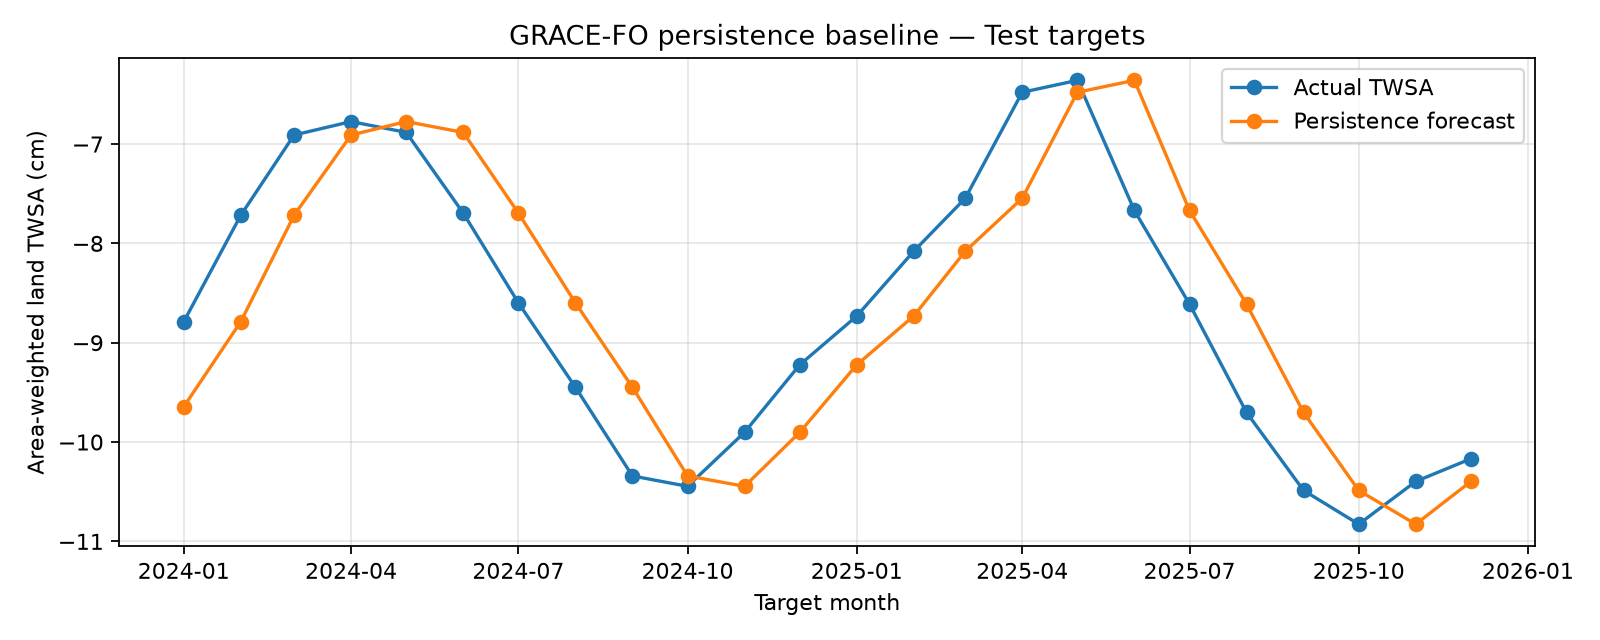
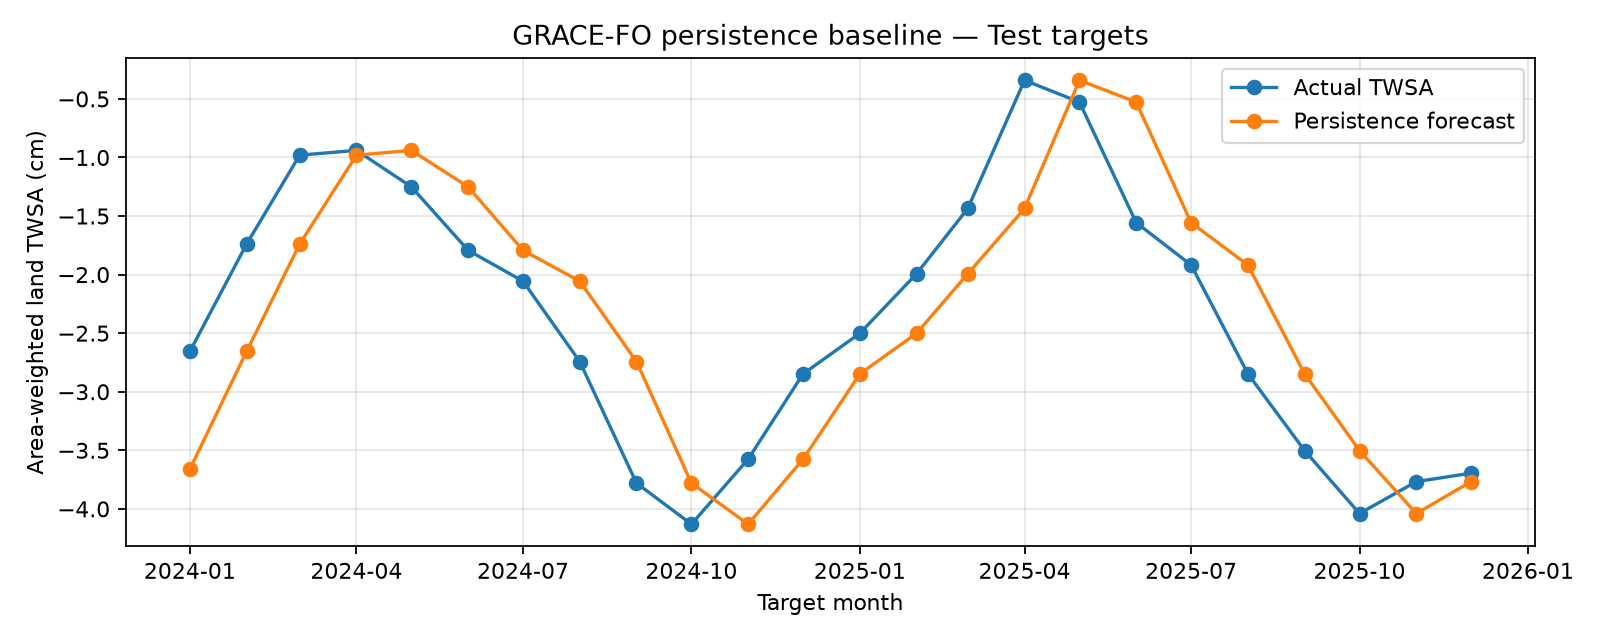
Update GRACE persistence RMSE, coverage, notebook, and outputs

diff --git a/scripts/grace_fo_persistence.py b/scripts/grace_fo_persistence.py
@@ -130,16 +130,22 @@ def temporal_correlation(actual: xr.DataArray, predicted: xr.DataArray, valid: x
     return correlation, eligible
 
 
-def evaluate(actual: xr.DataArray, predicted: xr.DataArray) -> tuple[dict, xr.DataArray]:
-    """Compute valid-land, latitude-area-weighted metrics in centimeters.
+def evaluate(
+    actual: xr.DataArray, predicted: xr.DataArray, land_mask: xr.DataArray
+) -> tuple[dict, xr.DataArray]:
+    """Compute valid land metrics between 60°S and 60°N in centimeters.
 
     MAE = sum(w * |actual - predicted|) / sum(w)
-    RMSE = sqrt(sum(w * (actual - predicted)^2) / sum(w))
-    where w = cos(latitude) for each valid land-cell/month observation.
+    The primary RMSE is computed through time per grid cell, then averaged
+    over valid cells with w = cos(latitude). The prior pooled RMSE across all
+    valid cell/month observations is retained separately for continuity.
     Pearson r is computed through time per grid cell, then averaged over
     eligible cells with the same latitude weights.
     """
-    valid = np.isfinite(actual) & np.isfinite(predicted)
+    latitude_mask = xr.DataArray(
+        np.abs(actual.lat.values) <= 60, coords={"lat": actual.lat}, dims=("lat",)
+    )
+    valid = np.isfinite(actual) & np.isfinite(predicted) & (land_mask == 1) & latitude_mask
     weights = latitude_weights(actual).broadcast_like(actual)
     weighted_denominator = weights.where(valid).sum(skipna=True)
     if float(weighted_denominator) == 0:
@@ -147,12 +153,19 @@ def evaluate(actual: xr.DataArray, predicted: xr.DataArray) -> tuple[dict, xr.Da
 
     error = actual - predicted
     mae = (weights * np.abs(error)).where(valid).sum(skipna=True) / weighted_denominator
-    rmse = np.sqrt(((weights * error ** 2).where(valid).sum(skipna=True)) / weighted_denominator)
+    pooled_rmse = np.sqrt(((weights * error ** 2).where(valid).sum(skipna=True)) / weighted_denominator)
+    per_cell_rmse = np.sqrt((error ** 2).where(valid).mean(dim="time", skipna=True))
+    eligible_rmse = np.isfinite(per_cell_rmse)
+    cell_weights = latitude_weights(actual).broadcast_like(per_cell_rmse)
+    rmse_weight_sum = cell_weights.where(eligible_rmse).sum(skipna=True)
+    area_weighted_per_cell_rmse = (
+        (cell_weights * per_cell_rmse).where(eligible_rmse).sum(skipna=True) / rmse_weight_sum
+    )
     correlation, eligible_correlation = temporal_correlation(actual, predicted, valid)
-    cell_weights = latitude_weights(actual).broadcast_like(correlation)
-    correlation_weight_sum = cell_weights.where(eligible_correlation).sum(skipna=True)
+    correlation_weights = latitude_weights(actual).broadcast_like(correlation)
+    correlation_weight_sum = correlation_weights.where(eligible_correlation).sum(skipna=True)
     weighted_correlation = (
-        (cell_weights * correlation).where(eligible_correlation).sum(skipna=True) / correlation_weight_sum
+        (correlation_weights * correlation).where(eligible_correlation).sum(skipna=True) / correlation_weight_sum
         if float(correlation_weight_sum) > 0
         else xr.DataArray(np.nan)
     )
@@ -161,8 +174,11 @@ def evaluate(actual: xr.DataArray, predicted: xr.DataArray) -> tuple[dict, xr.Da
     valid_by_cell = valid.any(dim="time")
     metrics = {
         "mae_cm": float(mae),
-        "rmse_cm": float(rmse),
+        "rmse_cm": float(area_weighted_per_cell_rmse),
+        "area_weighted_per_cell_rmse_cm": float(area_weighted_per_cell_rmse),
+        "pooled_rmse_cm": float(pooled_rmse),
         "area_weighted_mean_temporal_pearson_r": float(weighted_correlation),
+        "evaluation_latitude_range_degrees": [-60, 60],
         "evaluated_months": int(valid_by_time.sum()),
         "evaluated_land_cells": int(valid_by_cell.sum()),
         "correlation_eligible_land_cells": int(eligible_correlation.sum()),
@@ -281,7 +297,13 @@ def main() -> None:
     all_metrics = {
         "baseline": "one_month_persistence",
         "forecast_horizon_months": config["forecast"]["horizon_months"],
-        "metric_units": {"mae_cm": "cm", "rmse_cm": "cm", "area_weighted_mean_temporal_pearson_r": "unitless"},
+        "metric_units": {
+            "mae_cm": "cm",
+            "rmse_cm": "cm",
+            "area_weighted_per_cell_rmse_cm": "cm",
+            "pooled_rmse_cm": "cm",
+            "area_weighted_mean_temporal_pearson_r": "unitless",
+        },
         "split_datasets": {},
         "splits": {},
     }
@@ -290,6 +312,7 @@ def main() -> None:
         validate_processed_dataset(dataset, config)
         split_paths = write_split_datasets(dataset, config, args.split_output_dir)
         data = land_modeling_view(dataset, target_variable, land_mask_variable).load()
+        land_mask = dataset[land_mask_variable].load()
 
     all_metrics["split_datasets"] = {name: str(path) for name, path in split_paths.items()}
 
@@ -298,7 +321,7 @@ def main() -> None:
 
     for split_name, split in config["splits"].items():
         actual, predicted = persistence_pairs(data, split["start"], split["end"])
-        metrics, valid = evaluate(actual, predicted)
+        metrics, valid = evaluate(actual, predicted, land_mask)
         metrics["target_start"] = split["start"]
         metrics["target_end"] = split["end"]
         all_metrics["splits"][split_name] = metrics
@@ -317,7 +340,7 @@ def main() -> None:
         "model_type": "deterministic_persistence",
         "equation": "predicted_twsa(t) = observed_twsa(t - 1)",
         "target_variable": target_variable,
-        "modeling_mask": f"{land_mask_variable} == 1",
+        "modeling_mask": f"{land_mask_variable} == 1 and -60 <= latitude <= 60 for evaluation",
         "forecast_horizon_months": config["forecast"]["horizon_months"],
         "study_period": config["study_period"],
         "splits": config["splits"],
@@ -335,7 +358,8 @@ def main() -> None:
     for split_name, metrics in all_metrics["splits"].items():
         print(
             f"{split_name}: MAE={metrics['mae_cm']:.3f} cm | "
-            f"RMSE={metrics['rmse_cm']:.3f} cm | "
+            f"RMSE (area-weighted per-cell)={metrics['rmse_cm']:.3f} cm | "
+            f"pooled RMSE={metrics['pooled_rmse_cm']:.3f} cm | "
             f"r={metrics['area_weighted_mean_temporal_pearson_r']:.3f} | "
             f"months={metrics['evaluated_months']} | cells={metrics['evaluated_land_cells']}"
         )

diff --git a/tests/test_grace_fo_pipeline.py b/tests/test_grace_fo_pipeline.py
@@ -98,12 +98,34 @@ class GraceFoPersistenceTests(unittest.TestCase):
             coords={"time": pd.date_range("2023-01-01", periods=3, freq="MS"), "lat": [0.0, 60.0], "lon": [0.0]},
         )
         predicted = actual - 1.0
-        metrics, _ = persistence.evaluate(actual, predicted)
+        land_mask = xr.DataArray([[1], [1]], dims=("lat", "lon"), coords={"lat": [0.0, 60.0], "lon": [0.0]})
+        metrics, _ = persistence.evaluate(actual, predicted, land_mask)
         self.assertAlmostEqual(metrics["mae_cm"], 1.0)
         self.assertAlmostEqual(metrics["rmse_cm"], 1.0)
+        self.assertAlmostEqual(metrics["pooled_rmse_cm"], 1.0)
         self.assertAlmostEqual(metrics["area_weighted_mean_temporal_pearson_r"], 1.0)
         self.assertEqual(metrics["evaluated_months"], 3)
         self.assertEqual(metrics["evaluated_land_cells"], 2)
+
+    def test_evaluation_uses_land_60_degree_mask_and_per_cell_rmse(self):
+        actual = xr.DataArray(
+            np.array([[[0.0], [0.0], [0.0]], [[0.0], [0.0], [0.0]]]),
+            dims=("time", "lat", "lon"),
+            coords={"time": pd.date_range("2023-01-01", periods=2, freq="MS"), "lat": [0.0, 30.0, 70.0], "lon": [0.0]},
+        )
+        predicted = actual + np.array([[[0.0], [0.0], [100.0]], [[2.0], [6.0], [100.0]]])
+        land_mask = xr.DataArray(
+            [[1], [1], [1]], dims=("lat", "lon"), coords={"lat": actual.lat, "lon": actual.lon}
+        )
+        metrics, valid = persistence.evaluate(actual, predicted, land_mask)
+        weight_30 = np.cos(np.deg2rad(30.0))
+        expected_per_cell = (np.sqrt(2.0) + weight_30 * np.sqrt(18.0)) / (1.0 + weight_30)
+        expected_pooled = np.sqrt((2.0 + weight_30 * 18.0) / (1.0 + weight_30))
+        self.assertAlmostEqual(metrics["rmse_cm"], expected_per_cell)
+        self.assertAlmostEqual(metrics["pooled_rmse_cm"], expected_pooled)
+        self.assertNotAlmostEqual(metrics["rmse_cm"], metrics["pooled_rmse_cm"])
+        self.assertEqual(metrics["evaluated_land_cells"], 2)
+        self.assertFalse(valid.sel(lat=70.0).any())
 
     def test_shared_split_configuration_is_chronological(self):
         config = persistence.load_config(PROJECT_ROOT / "configs" / "grace_fo_config.yaml")

diff --git a/README.md b/README.md
@@ -31,7 +31,15 @@ Create a local `.env` file and add your NASA Earthdata credentials. Do not commi
 cp .env.example .env
 ```
 
-Run the processing script from the repository root to download (or safely reuse) the original NASA source in `data/raw/` and write separate, validated GRACE-FO outputs to `data/processed/`:
+Run the following steps from the repository root, in order. They reproduce the GRACE-FO persistence artifacts used by this project. The notebook `notebooks/GRACE_GRACE_FO_Data_Analysis.ipynb` follows the same order when run top to bottom.
+
+1. Install the GRACE workflow dependencies once:
+
+```bash
+python -m pip install numpy pandas xarray matplotlib PyYAML netCDF4 python-dotenv podaac-data-subscriber
+```
+
+2. Download (or safely reuse) the original NASA source in `data/raw/`, then write the validated processed master and optional land view:
 
 ```bash
 python scripts/grace_fo_processing.py \
@@ -43,7 +51,7 @@ python scripts/grace_fo_processing.py \
 
 The script preserves the raw NASA NetCDF unchanged. A `SKIPPED` download message means the existing source file was reused successfully. The expected validation output covers 84 monthly observations from January 2019 through December 2025 on a 360 × 720 grid. The full `grace_fo_processed.nc` retains all NASA variables; `grace_fo_land_modeling_view.nc` is a separate optional land-only view.
 
-Run the reproducible one-month-ahead persistence baseline with the shared chronological splits:
+3. Run the reproducible one-month-ahead persistence baseline with the shared chronological splits:
 
 ```bash
 python scripts/grace_fo_persistence.py \
@@ -55,7 +63,9 @@ python scripts/grace_fo_persistence.py \
   --model-output models/grace_fo_one_month_persistence_baseline.json
 ```
 
-It saves `grace_fo_persistence_metrics.json`, `grace_fo_chronological_splits.csv`, `grace_fo_one_month_persistence_baseline.json`, and one GRACE-FO actual-versus-predicted figure per split. The split manifest is deterministic and uses no random seed. The saved model specification records the persistence equation and confirms that it has no learned parameters. See [grace_fo_eda.md](grace_fo_eda.md) for the existing notebook's EDA findings, preprocessing decisions, and limitations.
+It saves `grace_fo_persistence_metrics.json`, `grace_fo_chronological_splits.csv`, `grace_fo_one_month_persistence_baseline.json`, and one GRACE-FO actual-versus-predicted figure per split. The split manifest is deterministic and uses no random seed. The saved model specification records the persistence equation and confirms that it has no learned parameters.
+
+Persistence evaluation uses only `land_mask == 1` cells from 60°S through 60°N. The primary `rmse_cm` is the cosine-latitude area-weighted average of per-cell temporal RMSE values; `pooled_rmse_cm` is retained as the legacy pooled cell-month measure. The fixed target-month splits are train (2019-01-01–2022-12-31), validation (2023-01-01–2023-12-31), and test (2024-01-01–2025-12-31). The test output contains 24 target-month coordinates from 2024-01-01 through 2025-12-01.
 
 ### Current GRACE-FO artifacts and Member 4 handoff
 
